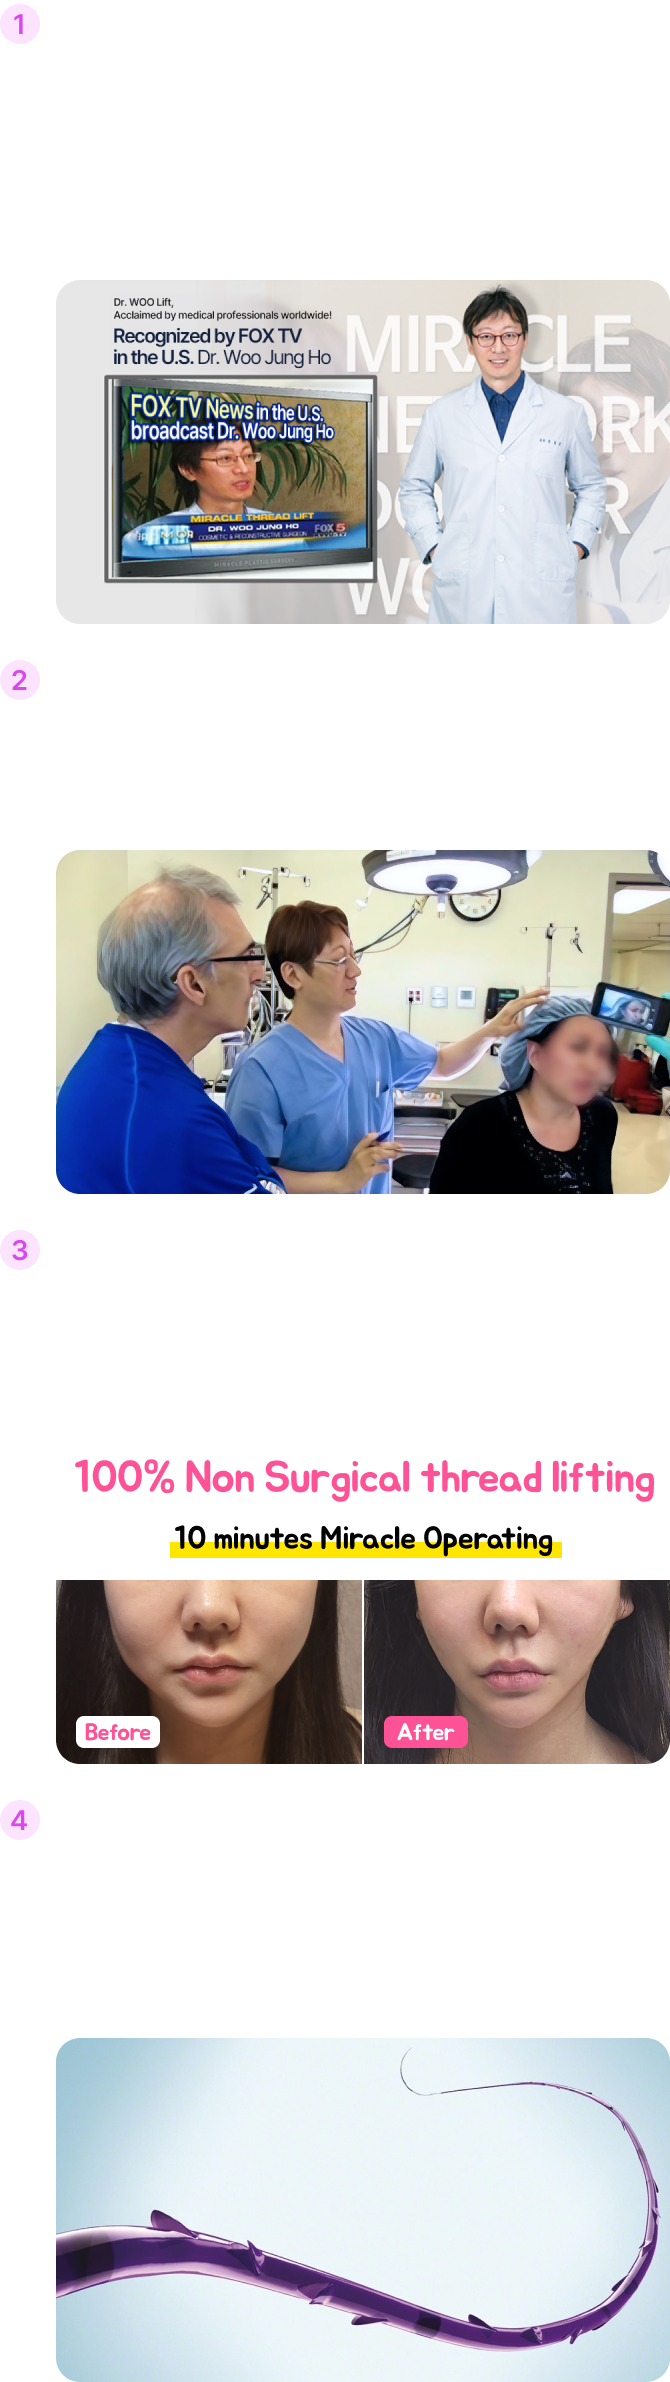
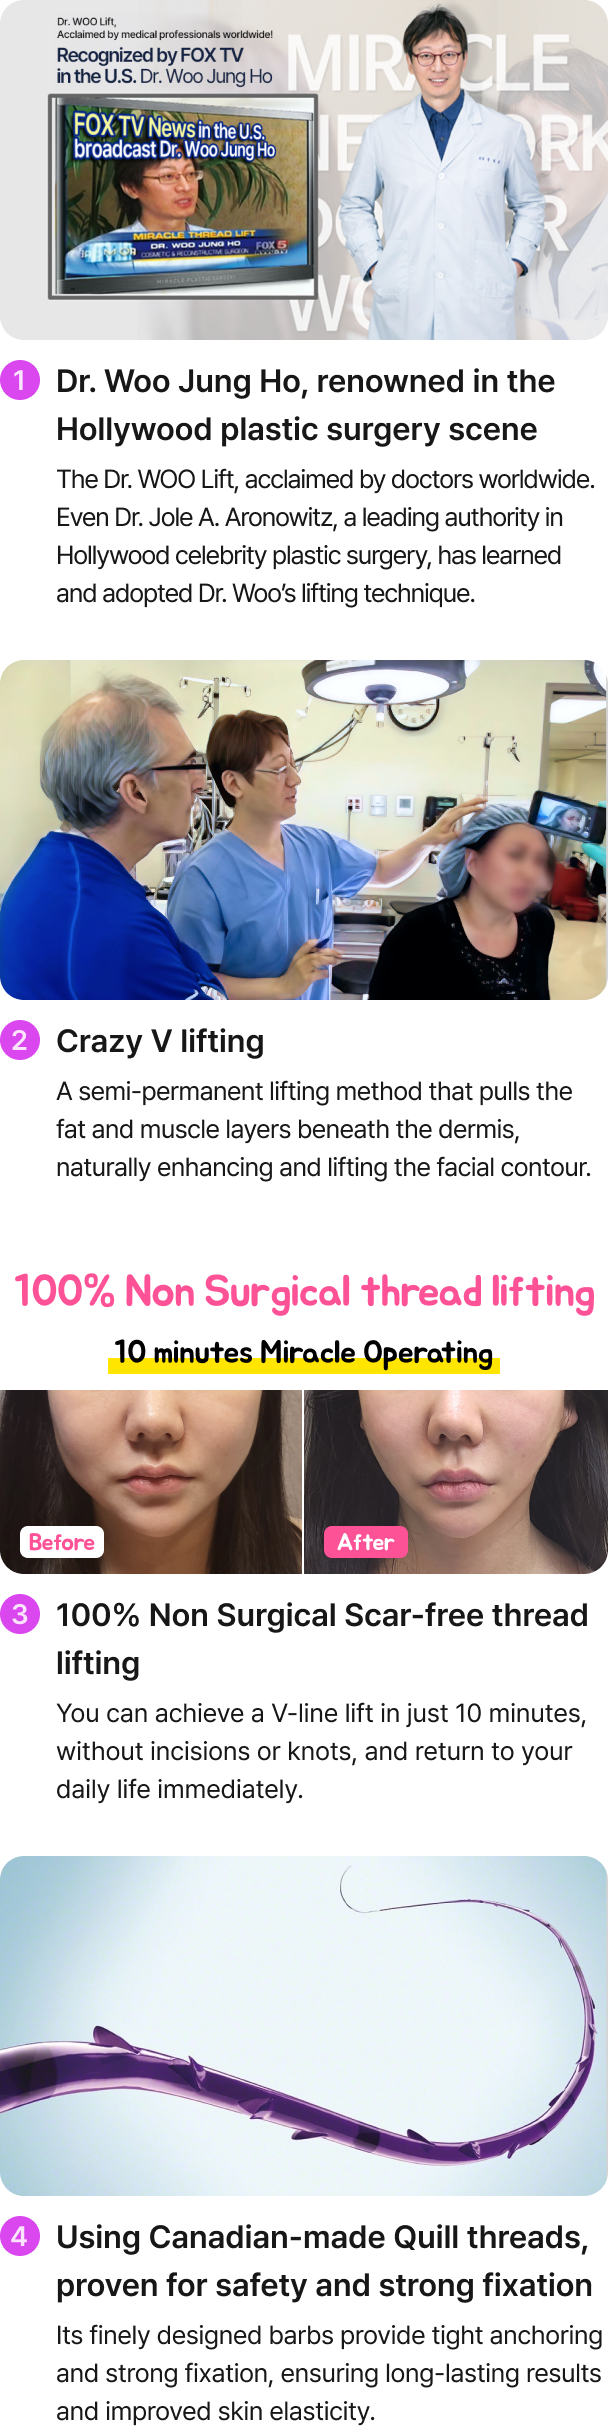
병원 상세 시술 컴포넌트의 레이아웃을 개선하고, 시술 상세 타이틀 및 콘텐츠를 추가하여 사용자 경험을 향상시킴. 이미지 섹션의 스타일을 조정하고, 탭 컴포넌트의 여백을 수정하여 가독성을 높임. 관련 이미지 파일을 업데이트함.

diff --git a/features/hospital-detail-procedures/ui/ApgujeongMiracleProcedures.tsx b/features/hospital-detail-procedures/ui/ApgujeongMiracleProcedures.tsx
@@ -49,40 +49,48 @@ export function ApgujeongMiracleProcedures({
   const miracleImagePath = getMiracleDetailImagePath(lang);
 
   return (
-    <div className='space-y-8'>
-      {/* 첫 번째 섹션: 유튜브 영상 */}
-      <section className='w-full'>
-        <div className='mx-auto'>
-          <div className='aspect-video w-full overflow-hidden'>
-            <iframe
-              width='100%'
-              height='100%'
-              src={embedUrl}
-              title='YouTube video player'
-              frameBorder='0'
-              allow='accelerometer; autoplay; clipboard-write; encrypted-media; gyroscope; picture-in-picture; web-share'
-              allowFullScreen
-              className='h-full w-full'
-            />
-          </div>
-          <p className='mt-4 text-center text-base font-semibold text-white'>
-            {dict.hospitalDetailTabs.apgujeongMiracle.videoDescription}
-          </p>
-        </div>
-      </section>
+    <div className='space-y-4'>
+      {/* 시술상세 타이틀 */}
+      <div className=''>
+        <h2 className='text-base font-bold'>{dict.hospitalDetailTabs.procedures}</h2>
+      </div>
 
-      {/* 두 번째 섹션: 이미지 */}
-      <section className='w-full'>
-        <div className='mx-auto'>
-          <div className='flex w-full justify-center'>
-            <img
-              src={miracleImagePath}
-              alt={dict.hospitalDetailTabs.apgujeongMiracle.imageAlt}
-              className='h-auto w-full max-w-[375px] object-contain'
-            />
+      {/* 시술상세 컨텐츠를 감싸는 div */}
+      <div className='rounded-xl border border-white bg-white/50 p-4 shadow-[1px_1px_12px_0_rgba(76,25,168,0.12)] backdrop-blur-[6px]'>
+        {/* 첫 번째 섹션: 유튜브 영상 */}
+        <section className='w-full'>
+          <div className='mx-auto'>
+            <div className='aspect-video w-full overflow-hidden'>
+              <iframe
+                width='100%'
+                height='100%'
+                src={embedUrl}
+                title='YouTube video player'
+                frameBorder='0'
+                allow='accelerometer; autoplay; clipboard-write; encrypted-media; gyroscope; picture-in-picture; web-share'
+                allowFullScreen
+                className='h-full w-full'
+              />
+            </div>
+            <p className='mt-2 text-center text-[16px] font-[600] text-neutral-900'>
+              {dict.hospitalDetailTabs.apgujeongMiracle.videoDescription}
+            </p>
           </div>
-        </div>
-      </section>
+        </section>
+
+        {/* 두 번째 섹션: 이미지 */}
+        <section className='mt-8 w-full'>
+          <div className='mx-auto'>
+            <div className='flex w-full justify-center'>
+              <img
+                src={miracleImagePath}
+                alt={dict.hospitalDetailTabs.apgujeongMiracle.imageAlt}
+                className='h-auto w-full max-w-[375px] object-contain'
+              />
+            </div>
+          </div>
+        </section>
+      </div>
     </div>
   );
 }

diff --git a/widgets/hospital-detail-tabs/ui/HospitalDetailTabs.tsx b/widgets/hospital-detail-tabs/ui/HospitalDetailTabs.tsx
@@ -36,7 +36,7 @@ export function HospitalDetailTabs({ hospital, hospitalId, lang, dict }: Hospita
       <div className='relative'>
         {/* 병원소개 탭 */}
         <div
-          className={`overflow-y-auto px-5 py-6 transition-opacity duration-300 ${
+          className={`px-5 py-6 transition-opacity duration-300 ${
             activeTab === 0 ? 'opacity-100' : 'pointer-events-none absolute inset-0 opacity-0'
           }`}
         >
@@ -50,7 +50,7 @@ export function HospitalDetailTabs({ hospital, hospitalId, lang, dict }: Hospita
 
         {/* 시술상세 탭 */}
         <div
-          className={`overflow-y-auto px-5 py-4 transition-opacity duration-300 ${
+          className={`px-5 py-6 transition-opacity duration-300 ${
             activeTab === 1 ? 'opacity-100' : 'pointer-events-none absolute inset-0 opacity-0'
           }`}
         >
